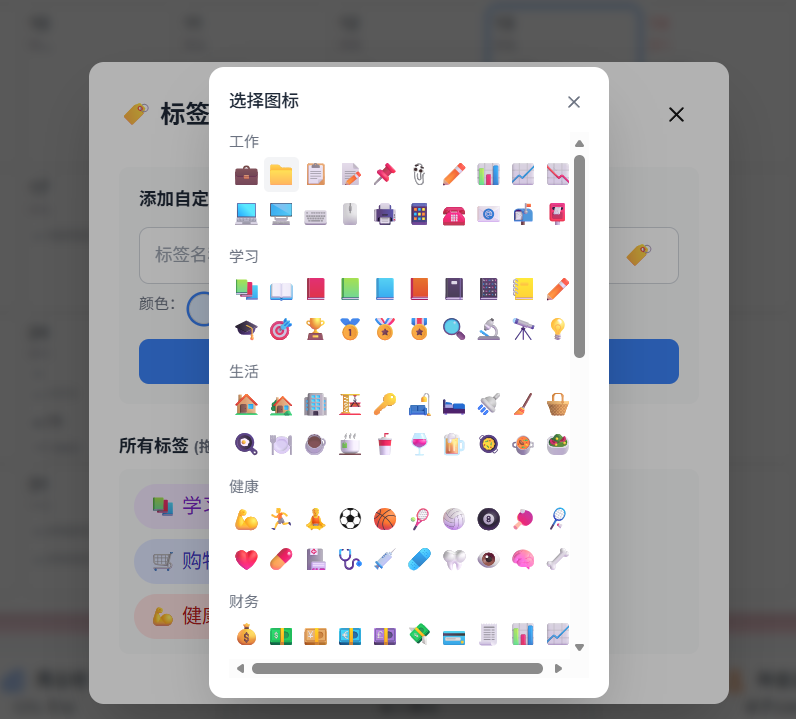
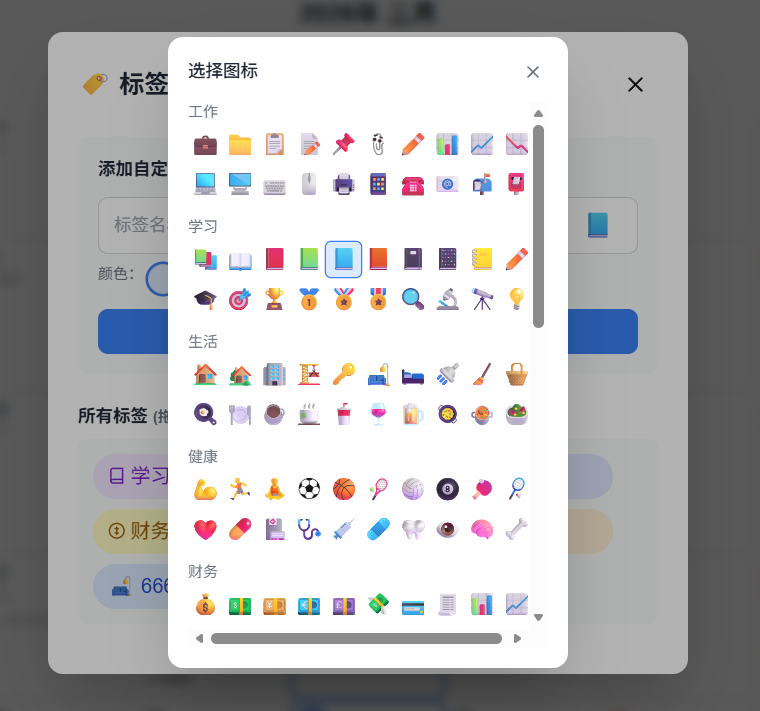
feat: 将自定义标签图标选择器改为 SVG 格式
- 创建 SVG_ICON_CATEGORIES 常量，包含工作、学习、生活、健康、财务、社交、出行、购物、其他 9 个分类，共 150+ 个 SVG 图标
- 修改 generateIconPickerHTML() 函数使用新的 SVG 图标分类
- 修改 selectIcon() 函数支持 SVG 图标选择和显示
- 修改 getTagIconSVG() 函数支持从 SVG_ICON_CATEGORIES 获取图标
- 选择图标弹窗改为 8 列布局，图标更大更清晰
- 每个图标都有 title 提示显示图标名称

diff --git a/src/main.ts b/src/main.ts
@@ -172,8 +172,19 @@ function getTagIconSVG(tagId: string, icon?: string): string {
   if (TAG_SVG_ICONS[tagId]) {
     return TAG_SVG_ICONS[tagId];
   }
-  // 否则使用原始 icon（可能是 emoji 或自定义 SVG 字符串）
-  return icon || '';
+  // 尝试从 SVG_ICON_CATEGORIES 中获取
+  if (icon) {
+    const svgIcon = getSVGIconById(icon);
+    if (svgIcon) {
+      return `<span class="w-3.5 h-3.5">${svgIcon}</span>`;
+    }
+  }
+  // 如果 icon 本身是 SVG 字符串（旧数据兼容）
+  if (icon && icon.startsWith('<svg')) {
+    return `<span class="w-3.5 h-3.5">${icon}</span>`;
+  }
+  // 默认返回一个标签图标
+  return `<span class="w-3.5 h-3.5"><svg viewBox="0 0 24 24" fill="none" stroke="currentColor" stroke-width="1.5"><path d="M12 2H2v10l9.29 9.29c.94.94 2.48.94 3.42 0l6.58-6.58c.94-.94.94-2.48 0-3.42L12 2Z"/><circle cx="7" cy="7" r="1.5"/></svg></span>`;
 }
 
 // 预设标签配置
@@ -189,7 +200,210 @@ const DEFAULT_TAGS: Tag[] = [
   { id: 'shopping', name: '购物', color: 'bg-indigo-100', textColor: 'text-indigo-700', icon: 'cart' },
 ];
 
-// 可选图标列表
+// SVG 图标定义
+interface SVGIcon {
+  id: string;
+  name: string;
+  svg: string;
+}
+
+// SVG 图标库（按分类组织）
+const SVG_ICON_CATEGORIES: { name: string; icons: SVGIcon[] }[] = [
+  {
+    name: '工作',
+    icons: [
+      { id: 'briefcase', name: '公文包', svg: '<svg viewBox="0 0 24 24" fill="none" stroke="currentColor" stroke-width="1.5"><rect x="2" y="7" width="20" height="14" rx="2"/><path d="M16 7V4a2 2 0 0 0-2-2h-4a2 2 0 0 0-2 2v3"/></svg>' },
+      { id: 'folder', name: '文件夹', svg: '<svg viewBox="0 0 24 24" fill="none" stroke="currentColor" stroke-width="1.5"><path d="M22 19a2 2 0 0 1-2 2H4a2 2 0 0 1-2-2V5a2 2 0 0 1 2-2h5l2 3h9a2 2 0 0 1 2 2z"/></svg>' },
+      { id: 'file-text', name: '文档', svg: '<svg viewBox="0 0 24 24" fill="none" stroke="currentColor" stroke-width="1.5"><path d="M14 2H6a2 2 0 0 0-2 2v16a2 2 0 0 0 2 2h12a2 2 0 0 0 2-2V8z"/><polyline points="14,2 14,8 20,8"/><line x1="16" y1="13" x2="8" y2="13"/><line x1="16" y1="17" x2="8" y2="17"/><line x1="10" y1="9" x2="8" y2="9"/></svg>' },
+      { id: 'paperclip', name: '回形针', svg: '<svg viewBox="0 0 24 24" fill="none" stroke="currentColor" stroke-width="1.5"><path d="m21.44 11.05-9.19 9.19a6 6 0 0 1-8.49-8.49l9.19-9.19a4 4 0 0 1 5.66 5.66l-9.2 9.19a2 2 0 0 1-2.83-2.83l8.49-8.48"/></svg>' },
+      { id: 'pin', name: '图钉', svg: '<svg viewBox="0 0 24 24" fill="none" stroke="currentColor" stroke-width="1.5"><path d="M12 17v5"/><path d="M9 10.76a2 2 0 0 1-1.11 1.79l-1.78.9A2 2 0 0 0 5 15.24V17h14v-1.76a2 2 0 0 0-1.11-1.79l-1.78-.9A2 2 0 0 1 15 10.76V6a1 1 0 0 0-1-1h-4a1 1 0 0 0-1 1z"/></svg>' },
+      { id: 'pencil', name: '铅笔', svg: '<svg viewBox="0 0 24 24" fill="none" stroke="currentColor" stroke-width="1.5"><path d="M17 3a2.85 2.85 0 1 1 4 4L7.5 20.5 2 22l1.5-5.5Z"/></svg>' },
+      { id: 'bar-chart', name: '柱状图', svg: '<svg viewBox="0 0 24 24" fill="none" stroke="currentColor" stroke-width="1.5"><line x1="12" y1="20" x2="12" y2="10"/><line x1="18" y1="20" x2="18" y2="4"/><line x1="6" y1="20" x2="6" y2="16"/></svg>' },
+      { id: 'trending-up', name: '上升趋势', svg: '<svg viewBox="0 0 24 24" fill="none" stroke="currentColor" stroke-width="1.5"><polyline points="23,6 13.5,15.5 8.5,10.5 1,18"/><polyline points="17,6 23,6 23,12"/></svg>' },
+      { id: 'laptop', name: '笔记本', svg: '<svg viewBox="0 0 24 24" fill="none" stroke="currentColor" stroke-width="1.5"><rect x="2" y="4" width="20" height="12" rx="2"/><line x1="6" y1="20" x2="18" y2="20"/><line x1="12" y1="16" x2="12" y2="20"/></svg>' },
+      { id: 'monitor', name: '显示器', svg: '<svg viewBox="0 0 24 24" fill="none" stroke="currentColor" stroke-width="1.5"><rect x="2" y="3" width="20" height="14" rx="2"/><line x1="8" y1="21" x2="16" y2="21"/><line x1="12" y1="17" x2="12" y2="21"/></svg>' },
+      { id: 'phone', name: '电话', svg: '<svg viewBox="0 0 24 24" fill="none" stroke="currentColor" stroke-width="1.5"><path d="M22 16.92v3a2 2 0 0 1-2.18 2 19.79 19.79 0 0 1-8.63-3.07 19.5 19.5 0 0 1-6-6 19.79 19.79 0 0 1-3.07-8.67A2 2 0 0 1 4.11 2h3a2 2 0 0 1 2 1.72 12.84 12.84 0 0 0 .7 2.81 2 2 0 0 1-.45 2.11L8.09 9.91a16 16 0 0 0 6 6l1.27-1.27a2 2 0 0 1 2.11-.45 12.84 12.84 0 0 0 2.81.7A2 2 0 0 1 22 16.92z"/></svg>' },
+      { id: 'mail', name: '邮件', svg: '<svg viewBox="0 0 24 24" fill="none" stroke="currentColor" stroke-width="1.5"><rect x="2" y="4" width="20" height="16" rx="2"/><polyline points="22,6 12,13 2,6"/></svg>' },
+      { id: 'calendar', name: '日历', svg: '<svg viewBox="0 0 24 24" fill="none" stroke="currentColor" stroke-width="1.5"><rect x="3" y="4" width="18" height="18" rx="2"/><line x1="16" y1="2" x2="16" y2="6"/><line x1="8" y1="2" x2="8" y2="6"/><line x1="3" y1="10" x2="21" y2="10"/></svg>' },
+      { id: 'clock', name: '时钟', svg: '<svg viewBox="0 0 24 24" fill="none" stroke="currentColor" stroke-width="1.5"><circle cx="12" cy="12" r="10"/><polyline points="12,6 12,12 16,14"/></svg>' },
+      { id: 'target', name: '目标', svg: '<svg viewBox="0 0 24 24" fill="none" stroke="currentColor" stroke-width="1.5"><circle cx="12" cy="12" r="10"/><circle cx="12" cy="12" r="6"/><circle cx="12" cy="12" r="2"/></svg>' },
+    ]
+  },
+  {
+    name: '学习',
+    icons: [
+      { id: 'book-open', name: '打开的书', svg: '<svg viewBox="0 0 24 24" fill="none" stroke="currentColor" stroke-width="1.5"><path d="M2 3h6a4 4 0 0 1 4 4v14a3 3 0 0 0-3-3H2z"/><path d="M22 3h-6a4 4 0 0 0-4 4v14a3 3 0 0 1 3-3h7z"/></svg>' },
+      { id: 'book', name: '书本', svg: '<svg viewBox="0 0 24 24" fill="none" stroke="currentColor" stroke-width="1.5"><path d="M4 19.5A2.5 2.5 0 0 1 6.5 17H20"/><path d="M6.5 2H20v20H6.5A2.5 2.5 0 0 1 4 19.5v-15A2.5 2.5 0 0 1 6.5 2z"/></svg>' },
+      { id: 'graduation-cap', name: '学士帽', svg: '<svg viewBox="0 0 24 24" fill="none" stroke="currentColor" stroke-width="1.5"><path d="M22 10v6M6 12.5V16a6 3 0 0 0 12 0v-3.5"/><path d="M12 2L2 7l10 5 10-5-10-5z"/></svg>' },
+      { id: 'award', name: '奖杯', svg: '<svg viewBox="0 0 24 24" fill="none" stroke="currentColor" stroke-width="1.5"><circle cx="12" cy="8" r="6"/><path d="M15.477 12.89 17 22l-5-3-5 3 1.523-9.11"/></svg>' },
+      { id: 'medal', name: '奖牌', svg: '<svg viewBox="0 0 24 24" fill="none" stroke="currentColor" stroke-width="1.5"><path d="M7.21 15 2.66 7.14a2 2 0 0 1 .13-2.2L4.4 2.8A2 2 0 0 1 6 2h12a2 2 0 0 1 1.6.8l1.6 2.14a2 2 0 0 1 .14 2.2L16.79 15"/><path d="M12 22a7 7 0 1 0 0-14 7 7 0 0 0 0 14z"/></svg>' },
+      { id: 'search', name: '搜索', svg: '<svg viewBox="0 0 24 24" fill="none" stroke="currentColor" stroke-width="1.5"><circle cx="11" cy="11" r="8"/><line x1="21" y1="21" x2="16.65" y2="16.65"/></svg>' },
+      { id: 'microscope', name: '显微镜', svg: '<svg viewBox="0 0 24 24" fill="none" stroke="currentColor" stroke-width="1.5"><path d="M6 18h8"/><path d="M3 22h18"/><path d="M14 22a7 7 0 1 0 0-14 7 7 0 0 0 0 14z"/><path d="M9 14l3-3"/><circle cx="14" cy="8" r="2"/></svg>' },
+      { id: 'lightbulb', name: '灯泡', svg: '<svg viewBox="0 0 24 24" fill="none" stroke="currentColor" stroke-width="1.5"><path d="M15 14c.2-1 .7-1.7 1.5-2.5 1-.9 1.5-2.2 1.5-3.5A6 6 0 0 0 6 8c0 1 .2 2.2 1.5 3.5.7.7 1.3 1.5 1.5 2.5"/><path d="M9 18h6"/><path d="M10 22h4"/></svg>' },
+      { id: 'brain', name: '大脑', svg: '<svg viewBox="0 0 24 24" fill="none" stroke="currentColor" stroke-width="1.5"><path d="M9.5 2A2.5 2.5 0 0 1 12 4.5v15a2.5 2.5 0 0 1-4.96.44 2.5 2.5 0 0 1-2.96-3.08 3 3 0 0 1-.34-5.58 2.5 2.5 0 0 1 1.32-4.24 2.5 2.5 0 0 1 4.44-2.54"/><path d="M14.5 2A2.5 2.5 0 0 0 12 4.5v15a2.5 2.5 0 0 0 4.96.44 2.5 2.5 0 0 0 2.96-3.08 3 3 0 0 0 .34-5.58 2.5 2.5 0 0 0-1.32-4.24 2.5 2.5 0 0 0-4.44-2.54"/></svg>' },
+      { id: 'pen-tool', name: '笔', svg: '<svg viewBox="0 0 24 24" fill="none" stroke="currentColor" stroke-width="1.5"><path d="m12 19 7-7 3 3-7 7-3-3z"/><path d="m18 13-1.5-7.5L2 2l3.5 14.5L13 18l5-5z"/><path d="m2 2 7.586 7.586"/><circle cx="11" cy="11" r="2"/></svg>' },
+      { id: 'notebook', name: '笔记本', svg: '<svg viewBox="0 0 24 24" fill="none" stroke="currentColor" stroke-width="1.5"><path d="M4 4h16v16H4z"/><path d="M8 2v4"/><path d="M12 2v4"/><path d="M16 2v4"/><path d="M8 10h8"/><path d="M8 14h8"/></svg>' },
+      { id: 'bookmark', name: '书签', svg: '<svg viewBox="0 0 24 24" fill="none" stroke="currentColor" stroke-width="1.5"><path d="m19 21-7-4-7 4V5a2 2 0 0 1 2-2h10a2 2 0 0 1 2 2v16z"/></svg>' },
+      { id: 'flag', name: '旗帜', svg: '<svg viewBox="0 0 24 24" fill="none" stroke="currentColor" stroke-width="1.5"><path d="M4 15s1-1 4-1 5 2 8 2 4-1 4-1V3s-1 1-4 1-5-2-8-2-4 1-4 1z"/><line x1="4" y1="22" x2="4" y2="15"/></svg>' },
+      { id: 'check-circle', name: '完成', svg: '<svg viewBox="0 0 24 24" fill="none" stroke="currentColor" stroke-width="1.5"><path d="M22 11.08V12a10 10 0 1 1-5.93-9.14"/><polyline points="22,4 12,14.01 9,11.01"/></svg>' },
+      { id: 'star', name: '星星', svg: '<svg viewBox="0 0 24 24" fill="none" stroke="currentColor" stroke-width="1.5"><polygon points="12,2 15.09,8.26 22,9.27 17,14.14 18.18,21.02 12,17.77 5.82,21.02 7,14.14 2,9.27 8.91,8.26 12,2"/></svg>' },
+    ]
+  },
+  {
+    name: '生活',
+    icons: [
+      { id: 'home', name: '房子', svg: '<svg viewBox="0 0 24 24" fill="none" stroke="currentColor" stroke-width="1.5"><path d="m3 9 9-7 9 7v11a2 2 0 0 1-2 2H5a2 2 0 0 1-2-2z"/><polyline points="9,22 9,12 15,12 15,22"/></svg>' },
+      { id: 'building', name: '建筑', svg: '<svg viewBox="0 0 24 24" fill="none" stroke="currentColor" stroke-width="1.5"><rect x="4" y="2" width="16" height="20" rx="2"/><path d="M9 22v-4h6v4"/><path d="M8 6h.01"/><path d="M16 6h.01"/><path d="M12 6h.01"/><path d="M12 10h.01"/><path d="M12 14h.01"/><path d="M16 10h.01"/><path d="M16 14h.01"/><path d="M8 10h.01"/><path d="M8 14h.01"/></svg>' },
+      { id: 'key', name: '钥匙', svg: '<svg viewBox="0 0 24 24" fill="none" stroke="currentColor" stroke-width="1.5"><path d="m21 2-2 2m-7.61 7.61a5.5 5.5 0 1 1-7.778 7.778 5.5 5.5 0 0 1 7.777-7.777zm0 0L15.5 7.5m0 0 3 3L22 7l-3-3m-3.5 3.5L19 4"/></svg>' },
+      { id: 'coffee', name: '咖啡', svg: '<svg viewBox="0 0 24 24" fill="none" stroke="currentColor" stroke-width="1.5"><path d="M17 8h1a4 4 0 1 1 0 8h-1"/><path d="M3 8h14v9a4 4 0 0 1-4 4H7a4 4 0 0 1-4-4Z"/><line x1="6" y1="2" x2="6" y2="4"/><line x1="10" y1="2" x2="10" y2="4"/><line x1="14" y1="2" x2="14" y2="4"/></svg>' },
+      { id: 'utensils', name: '餐具', svg: '<svg viewBox="0 0 24 24" fill="none" stroke="currentColor" stroke-width="1.5"><path d="M3 2v7c0 1.1.9 2 2 2h4a2 2 0 0 0 2-2V2"/><path d="M7 2v20"/><path d="M21 15V2v0a5 5 0 0 0-5 5v6c0 1.1.9 2 2 2h3Zm0 0v7"/></svg>' },
+      { id: 'wine', name: '红酒', svg: '<svg viewBox="0 0 24 24" fill="none" stroke="currentColor" stroke-width="1.5"><path d="M8 22h8"/><path d="M12 11v11"/><path d="M12 15a7 7 0 0 0 7-7c0-2-1-6-7-6s-7 4-7 6a7 7 0 0 0 7 7z"/></svg>' },
+      { id: 'bed', name: '床', svg: '<svg viewBox="0 0 24 24" fill="none" stroke="currentColor" stroke-width="1.5"><path d="M2 4v16"/><path d="M2 8h18a2 2 0 0 1 2 2v10"/><path d="M2 17h20"/><path d="M6 8v9"/></svg>' },
+      { id: 'bath', name: '浴室', svg: '<svg viewBox="0 0 24 24" fill="none" stroke="currentColor" stroke-width="1.5"><path d="M9 6 6.5 3.5a1.5 1.5 0 0 0-1-.5C4.683 3 4 3.683 4 4.5V17a2 2 0 0 0 2 2h12a2 2 0 0 0 2-2v-5"/><line x1="10" y1="5" x2="8" y2="7"/><line x1="2" y1="12" x2="22" y2="12"/><line x1="7" y1="19" x2="7" y2="21"/><line x1="17" y1="19" x2="17" y2="21"/></svg>' },
+      { id: 'sofa', name: '沙发', svg: '<svg viewBox="0 0 24 24" fill="none" stroke="currentColor" stroke-width="1.5"><path d="M20 9V6a2 2 0 0 0-2-2H6a2 2 0 0 0-2 2v3"/><path d="M2 11v5a2 2 0 0 0 2 2h16a2 2 0 0 0 2-2v-5a2 2 0 0 0-4 0v2H6v-2a2 2 0 0 0-4 0Z"/><path d="M4 18v2"/><path d="M20 18v2"/><path d="M12 4v9"/></svg>' },
+      { id: 'tv', name: '电视', svg: '<svg viewBox="0 0 24 24" fill="none" stroke="currentColor" stroke-width="1.5"><rect x="2" y="7" width="20" height="15" rx="2"/><polyline points="17,2 12,7 7,2"/></svg>' },
+      { id: 'lamp', name: '台灯', svg: '<svg viewBox="0 0 24 24" fill="none" stroke="currentColor" stroke-width="1.5"><path d="M8 2h8l4 10H4L8 2Z"/><path d="M12 12v6"/><path d="M8 22v-2c0-1.1.9-2 2-2h4a2 2 0 0 1 2 2v2H8Z"/></svg>' },
+      { id: 'flower', name: '花', svg: '<svg viewBox="0 0 24 24" fill="none" stroke="currentColor" stroke-width="1.5"><path d="M12 7.5a4.5 4.5 0 1 1 4.5 4.5M12 7.5A4.5 4.5 0 1 0 7.5 12M12 7.5V9m-4.5 3a4.5 4.5 0 1 0 4.5 4.5M7.5 12H9m3 4.5a4.5 4.5 0 1 0 4.5-4.5M12 16.5V15m4.5-3a4.5 4.5 0 1 0-4.5-4.5M16.5 12H15"/><circle cx="12" cy="12" r="3"/><path d="M12 16.5V22"/><path d="M8 22h8"/></svg>' },
+      { id: 'gift', name: '礼物', svg: '<svg viewBox="0 0 24 24" fill="none" stroke="currentColor" stroke-width="1.5"><rect x="3" y="8" width="18" height="4" rx="1"/><path d="M12 8v13"/><path d="M19 12v7a2 2 0 0 1-2 2H7a2 2 0 0 1-2-2v-7"/><path d="M7.5 8a2.5 2.5 0 0 1 0-5A4.8 8 0 0 1 12 8a4.8 8 0 0 1 4.5-5 2.5 2.5 0 0 1 0 5"/></svg>' },
+      { id: 'sun', name: '太阳', svg: '<svg viewBox="0 0 24 24" fill="none" stroke="currentColor" stroke-width="1.5"><circle cx="12" cy="12" r="4"/><path d="M12 2v2"/><path d="M12 20v2"/><path d="m4.93 4.93 1.41 1.41"/><path d="m17.66 17.66 1.41 1.41"/><path d="M2 12h2"/><path d="M20 12h2"/><path d="m6.34 17.66-1.41 1.41"/><path d="m19.07 4.93-1.41 1.41"/></svg>' },
+      { id: 'moon', name: '月亮', svg: '<svg viewBox="0 0 24 24" fill="none" stroke="currentColor" stroke-width="1.5"><path d="M12 3a6 6 0 0 0 9 9 9 9 0 1 1-9-9Z"/></svg>' },
+    ]
+  },
+  {
+    name: '健康',
+    icons: [
+      { id: 'heart', name: '心形', svg: '<svg viewBox="0 0 24 24" fill="none" stroke="currentColor" stroke-width="1.5"><path d="M19 14c1.49-1.46 3-3.21 3-5.5A5.5 5.5 0 0 0 16.5 3c-1.76 0-3 .5-4.5 2-1.5-1.5-2.74-2-4.5-2A5.5 5.5 0 0 0 2 8.5c0 2.3 1.5 4.05 3 5.5l7 7Z"/></svg>' },
+      { id: 'activity', name: '活动', svg: '<svg viewBox="0 0 24 24" fill="none" stroke="currentColor" stroke-width="1.5"><polyline points="22,12 18,12 15,21 9,3 6,12 2,12"/></svg>' },
+      { id: 'dumbbell', name: '哑铃', svg: '<svg viewBox="0 0 24 24" fill="none" stroke="currentColor" stroke-width="1.5"><path d="m6.5 6.5 11 11"/><path d="m21 21-1-1"/><path d="m3 3 1 1"/><path d="m18 22 4-4"/><path d="m2 6 4-4"/><path d="m3 10 7-7"/><path d="m14 21 7-7"/></svg>' },
+      { id: 'bike', name: '骑行', svg: '<svg viewBox="0 0 24 24" fill="none" stroke="currentColor" stroke-width="1.5"><circle cx="18.5" cy="17.5" r="3.5"/><circle cx="5.5" cy="17.5" r="3.5"/><circle cx="15" cy="5" r="1"/><path d="M12 17.5V14l-3-3 4-3 2 3h2"/></svg>' },
+      { id: 'pill', name: '药丸', svg: '<svg viewBox="0 0 24 24" fill="none" stroke="currentColor" stroke-width="1.5"><path d="m10.5 20.5 10-10a4.95 4.95 0 1 0-7-7l-10 10a4.95 4.95 0 1 0 7 7Z"/><path d="m8.5 8.5 7 7"/></svg>' },
+      { id: 'stethoscope', name: '听诊器', svg: '<svg viewBox="0 0 24 24" fill="none" stroke="currentColor" stroke-width="1.5"><path d="M4.8 8.8A3 3 0 0 0 4 11v1a8 8 0 0 0 16 0v-1a3 3 0 0 0-.8-2.2"/><path d="M9 6h.01"/><path d="M15 6h.01"/><path d="M12 6h.01"/><circle cx="19" cy="6" r="3"/></svg>' },
+      { id: 'thermometer', name: '体温计', svg: '<svg viewBox="0 0 24 24" fill="none" stroke="currentColor" stroke-width="1.5"><path d="M14 4v10.54a4 4 0 1 1-4 0V4a2 2 0 0 1 4 0Z"/></svg>' },
+      { id: 'bandage', name: '创可贴', svg: '<svg viewBox="0 0 24 24" fill="none" stroke="currentColor" stroke-width="1.5"><path d="M19.5 12.5c2 2 2 5 0 7s-5 2-7 0l-8.5-8.5c-2-2-2-5 0-7s5-2 7 0l8.5 8.5z"/><path d="M9 12l6 6"/><path d="M12 9l6 6"/></svg>' },
+      { id: 'eye', name: '眼睛', svg: '<svg viewBox="0 0 24 24" fill="none" stroke="currentColor" stroke-width="1.5"><path d="M2 12s3-7 10-7 10 7 10 7-3 7-10 7-10-7-10-7Z"/><circle cx="12" cy="12" r="3"/></svg>' },
+      { id: 'apple', name: '苹果', svg: '<svg viewBox="0 0 24 24" fill="none" stroke="currentColor" stroke-width="1.5"><path d="M12 20.94c1.5 0 2.75 1.06 4 1.06 3 0 6-8 6-12.22A4.91 4.91 0 0 0 17 5c-2.22 0-4 1.44-5 2-1-.56-2.78-2-5-2a4.9 4.9 0 0 0-5 4.78C2 14 5 22 8 22c1.25 0 2.5-1.06 4-1.06Z"/><path d="M10 2c1 .5 2 1.5 2 3"/><path d="M12 5V2"/></svg>' },
+      { id: 'salad', name: '沙拉', svg: '<svg viewBox="0 0 24 24" fill="none" stroke="currentColor" stroke-width="1.5"><path d="M7 21h10"/><path d="M12 21a9 9 0 0 0 9-9H3a9 9 0 0 0 9 9Z"/><path d="M11.38 12a2.4 2.4 0 0 1-.4-4.77 2.4 2.4 0 0 1 3.2-2.77 2.4 2.4 0 0 1 3.47-.63 2.4 2.4 0 0 1 3.37 3.37 2.4 2.4 0 0 1-1.1 3.7 2.51 2.51 0 0 1 .03 1.1"/><path d="M13 12a2.4 2.4 0 0 0 .4-4.77 2.4 2.4 0 0 0-3.2-2.77 2.4 2.4 0 0 0-3.47-.63 2.4 2.4 0 0 0-3.37 3.37 2.4 2.4 0 0 0 1.1 3.7 2.5 2.5 0 0 0-.03 1.1"/></svg>' },
+      { id: 'running', name: '跑步', svg: '<svg viewBox="0 0 24 24" fill="none" stroke="currentColor" stroke-width="1.5"><circle cx="13" cy="4" r="2"/><path d="M6 20h3l2-6 3-1 2 2 3-1"/><path d="m9 12-1 4"/><path d="M4 17l3-4 2 1"/></svg>' },
+      { id: 'yoga', name: '瑜伽', svg: '<svg viewBox="0 0 24 24" fill="none" stroke="currentColor" stroke-width="1.5"><circle cx="12" cy="4" r="2"/><path d="M12 6v4"/><path d="M8 10h8"/><path d="m8 14 4 4 4-4"/><path d="M12 18v2"/></svg>' },
+      { id: 'baby', name: '婴儿', svg: '<svg viewBox="0 0 24 24" fill="none" stroke="currentColor" stroke-width="1.5"><circle cx="12" cy="6" r="3"/><path d="M12 9v3"/><path d="M6 21v-3a6 6 0 1 1 12 0v3"/><circle cx="9" cy="6" r="0.5" fill="currentColor"/><circle cx="15" cy="6" r="0.5" fill="currentColor"/></svg>' },
+      { id: 'bone', name: '骨骼', svg: '<svg viewBox="0 0 24 24" fill="none" stroke="currentColor" stroke-width="1.5"><path d="M17 10c.7-.7 1.69 0 2.5 0a2.5 2.5 0 1 0 0-5 .5.5 0 0 0-.5.5 1.5 1.5 0 0 1-3 0 .5.5 0 0 0-.5-.5 2.5 2.5 0 1 0 0 5c.81 0 1.8.7 2.5 0Z"/><path d="M17 14c.7.7 1.69 0 2.5 0a2.5 2.5 0 1 1 0 5 .5.5 0 0 1-.5-.5 1.5 1.5 0 0 0-3 0 .5.5 0 0 1-.5.5 2.5 2.5 0 1 1 0-5c.81 0 1.8-.7 2.5 0Z"/><path d="M7 10c-.7-.7-1.69 0-2.5 0a2.5 2.5 0 1 1 0-5 .5.5 0 0 1 .5.5 1.5 1.5 0 0 0 3 0 .5.5 0 0 1 .5-.5 2.5 2.5 0 1 1 0 5c-.81 0-1.8.7-2.5 0Z"/><path d="M7 14c-.7.7-1.69 0-2.5 0a2.5 2.5 0 1 0 0 5 .5.5 0 0 0 .5-.5 1.5 1.5 0 0 0 3 0 .5.5 0 0 0 .5.5 2.5 2.5 0 1 0 0-5c-.81 0-1.8-.7-2.5 0Z"/><path d="M10 12h4"/></svg>' },
+    ]
+  },
+  {
+    name: '财务',
+    icons: [
+      { id: 'wallet', name: '钱包', svg: '<svg viewBox="0 0 24 24" fill="none" stroke="currentColor" stroke-width="1.5"><path d="M21 12V7H5a2 2 0 0 1 0-4h14v4"/><path d="M3 5v14a2 2 0 0 0 2 2h16v-5"/><path d="M18 12a2 2 0 0 0 0 4h4v-4Z"/></svg>' },
+      { id: 'credit-card', name: '银行卡', svg: '<svg viewBox="0 0 24 24" fill="none" stroke="currentColor" stroke-width="1.5"><rect x="1" y="4" width="22" height="16" rx="2"/><line x1="1" y1="10" x2="23" y2="10"/></svg>' },
+      { id: 'banknote', name: '钞票', svg: '<svg viewBox="0 0 24 24" fill="none" stroke="currentColor" stroke-width="1.5"><rect x="2" y="6" width="20" height="12" rx="2"/><circle cx="12" cy="12" r="2"/><path d="M6 12h.01"/><path d="M18 12h.01"/></svg>' },
+      { id: 'piggy-bank', name: '存钱罐', svg: '<svg viewBox="0 0 24 24" fill="none" stroke="currentColor" stroke-width="1.5"><path d="M19 5c-1.5 0-2.8 1.4-3 2-3.5-1.5-11-.3-11 5 0 1.8 0 3 2 4.5V20h4v-2h3v2h4v-3.5c1-.5 2-1.5 2-3.5h2V9c0-1.5-1-4-3-4Z"/><path d="M2 9v1c0 1.1.9 2 2 2"/><path d="M16 11h.01"/></svg>' },
+      { id: 'bitcoin', name: '比特币', svg: '<svg viewBox="0 0 24 24" fill="none" stroke="currentColor" stroke-width="1.5"><path d="M11.767 19.089c4.924.868 6.14-6.025 1.216-6.894m-1.216 6.894L5.86 18.047m5.908 1.042-.347 1.97m1.563-8.864c4.924.869 6.14-6.025 1.215-6.893m-1.215 6.893-3.94-.694m5.155-6.2L8.29 4.26m5.908 1.042.348-1.97M7.48 20.364l3.126-17.727"/></svg>' },
+      { id: 'coin', name: '金币', svg: '<svg viewBox="0 0 24 24" fill="none" stroke="currentColor" stroke-width="1.5"><circle cx="12" cy="12" r="10"/><path d="M12 6v12"/><path d="M8 10h8"/><path d="M8 14h8"/></svg>' },
+      { id: 'receipt', name: '收据', svg: '<svg viewBox="0 0 24 24" fill="none" stroke="currentColor" stroke-width="1.5"><path d="M4 2v20l2-1 2 1 2-1 2 1 2-1 2 1 2-1 2 1V2l-2 1-2-1-2 1-2-1-2 1-2-1-2 1-2-1Z"/><path d="M16 8h-6a2 2 0 1 0 0 4h4a2 2 0 1 1 0 4H8"/><path d="M12 6v12"/></svg>' },
+      { id: 'percent', name: '百分比', svg: '<svg viewBox="0 0 24 24" fill="none" stroke="currentColor" stroke-width="1.5"><line x1="19" y1="5" x2="5" y2="19"/><circle cx="6.5" cy="6.5" r="2.5"/><circle cx="17.5" cy="17.5" r="2.5"/></svg>' },
+      { id: 'trending-down', name: '下降', svg: '<svg viewBox="0 0 24 24" fill="none" stroke="currentColor" stroke-width="1.5"><polyline points="23,18 13.5,8.5 8.5,13.5 1,6"/><polyline points="17,18 23,18 23,12"/></svg>' },
+      { id: 'landmark', name: '银行', svg: '<svg viewBox="0 0 24 24" fill="none" stroke="currentColor" stroke-width="1.5"><line x1="3" y1="22" x2="21" y2="22"/><line x1="6" y1="18" x2="6" y2="11"/><line x1="10" y1="18" x2="10" y2="11"/><line x1="14" y1="18" x2="14" y2="11"/><line x1="18" y1="18" x2="18" y2="11"/><polygon points="12,2 2,7 22,7"/></svg>' },
+      { id: 'diamond', name: '钻石', svg: '<svg viewBox="0 0 24 24" fill="none" stroke="currentColor" stroke-width="1.5"><path d="M2.7 10.3a2.41 2.41 0 0 0 0 3.41l7.59 7.59a2.41 2.41 0 0 0 3.41 0l7.59-7.59a2.41 2.41 0 0 0 0-3.41l-7.59-7.59a2.41 2.41 0 0 0-3.41 0Z"/></svg>' },
+      { id: 'hand-coins', name: '存钱', svg: '<svg viewBox="0 0 24 24" fill="none" stroke="currentColor" stroke-width="1.5"><path d="M11 15h7a2 2 0 0 0 2-2V9a2 2 0 0 0-2-2h-4"/><path d="M9 7h4a2 2 0 0 1 2 2v4a2 2 0 0 1-2 2H5"/><path d="M5 15v4"/><path d="M5 19h4"/><circle cx="12" cy="5" r="2"/></svg>' },
+      { id: 'circle-dollar-sign', name: '美元', svg: '<svg viewBox="0 0 24 24" fill="none" stroke="currentColor" stroke-width="1.5"><circle cx="12" cy="12" r="10"/><path d="M16 8h-6a2 2 0 1 0 0 4h4a2 2 0 1 1 0 4H8"/><path d="M12 6v12"/></svg>' },
+      { id: 'line-chart', name: '折线图', svg: '<svg viewBox="0 0 24 24" fill="none" stroke="currentColor" stroke-width="1.5"><path d="M3 3v18h18"/><path d="m19 9-5 5-4-4-3 3"/></svg>' },
+      { id: 'calculator', name: '计算器', svg: '<svg viewBox="0 0 24 24" fill="none" stroke="currentColor" stroke-width="1.5"><rect x="4" y="2" width="16" height="20" rx="2"/><line x1="8" y1="6" x2="16" y2="6"/><line x1="16" y1="14" x2="16" y2="18"/><path d="M8 10h.01"/><path d="M12 10h.01"/><path d="M16 10h.01"/><path d="M8 14h.01"/><path d="M12 14h.01"/><path d="M8 18h.01"/><path d="M12 18h.01"/></svg>' },
+    ]
+  },
+  {
+    name: '社交',
+    icons: [
+      { id: 'users', name: '用户组', svg: '<svg viewBox="0 0 24 24" fill="none" stroke="currentColor" stroke-width="1.5"><path d="M16 21v-2a4 4 0 0 0-4-4H6a4 4 0 0 0-4 4v2"/><circle cx="9" cy="7" r="4"/><path d="M22 21v-2a4 4 0 0 0-3-3.87"/><path d="M16 3.13a4 4 0 0 1 0 7.75"/></svg>' },
+      { id: 'user', name: '用户', svg: '<svg viewBox="0 0 24 24" fill="none" stroke="currentColor" stroke-width="1.5"><path d="M19 21v-2a4 4 0 0 0-4-4H9a4 4 0 0 0-4 4v2"/><circle cx="12" cy="7" r="4"/></svg>' },
+      { id: 'user-plus', name: '添加用户', svg: '<svg viewBox="0 0 24 24" fill="none" stroke="currentColor" stroke-width="1.5"><path d="M16 21v-2a4 4 0 0 0-4-4H6a4 4 0 0 0-4 4v2"/><circle cx="9" cy="7" r="4"/><line x1="19" y1="8" x2="19" y2="14"/><line x1="22" y1="11" x2="16" y2="11"/></svg>' },
+      { id: 'message-circle', name: '消息', svg: '<svg viewBox="0 0 24 24" fill="none" stroke="currentColor" stroke-width="1.5"><path d="M21 11.5a8.38 8.38 0 0 1-.9 3.8 8.5 8.5 0 0 1-7.6 4.7 8.38 8.38 0 0 1-3.8-.9L3 21l1.9-5.7a8.38 8.38 0 0 1-.9-3.8 8.5 8.5 0 0 1 4.7-7.6 8.38 8.38 0 0 1 3.8-.9h.5a8.48 8.48 0 0 1 8 8v.5z"/></svg>' },
+      { id: 'message-square', name: '对话框', svg: '<svg viewBox="0 0 24 24" fill="none" stroke="currentColor" stroke-width="1.5"><path d="M21 15a2 2 0 0 1-2 2H7l-4 4V5a2 2 0 0 1 2-2h14a2 2 0 0 1 2 2z"/></svg>' },
+      { id: 'at-sign', name: '@符号', svg: '<svg viewBox="0 0 24 24" fill="none" stroke="currentColor" stroke-width="1.5"><circle cx="12" cy="12" r="4"/><path d="M16 8v5a3 3 0 0 0 6 0v-1a10 10 0 1 0-4 8"/></svg>' },
+      { id: 'handshake', name: '握手', svg: '<svg viewBox="0 0 24 24" fill="none" stroke="currentColor" stroke-width="1.5"><path d="m11 17 2 2a1 1 0 1 0 3-3"/><path d="m14 14 2.5 2.5a1 1 0 1 0 3-3l-3.88-3.88a3 3 0 0 0-4.24 0l-.88.88a1 1 0 1 1-3-3l2.81-2.81a5.79 5.79 0 0 1 7.06-.87l.47.28a2 2 0 0 0 1.42.25L21 4"/><path d="m21 3 1 11h-2"/><path d="M3 3 2 14l6.5 6.5a1 1 0 1 0 3-3"/><path d="M3 4h8"/></svg>' },
+      { id: 'heart-handshake', name: '爱心握手', svg: '<svg viewBox="0 0 24 24" fill="none" stroke="currentColor" stroke-width="1.5"><path d="M19 14c1.49-1.46 3-3.21 3-5.5A5.5 5.5 0 0 0 16.5 3c-1.76 0-3 .5-4.5 2-1.5-1.5-2.74-2-4.5-2A5.5 5.5 0 0 0 2 8.5c0 2.3 1.5 4.05 3 5.5l7 7Z"/><path d="M12 5 9.04 7.96a2.17 2.17 0 0 0 0 3.08c.82.82 2.13.85 3 .07l2.07-1.9a2.82 2.82 0 0 1 3.79 0l2.96 2.66"/><path d="m18 15-2-2"/><path d="m15 18-2-2"/></svg>' },
+      { id: 'share-2', name: '分享', svg: '<svg viewBox="0 0 24 24" fill="none" stroke="currentColor" stroke-width="1.5"><circle cx="18" cy="5" r="3"/><circle cx="6" cy="12" r="3"/><circle cx="18" cy="19" r="3"/><line x1="8.59" y1="13.51" x2="15.42" y2="17.49"/><line x1="15.41" y1="6.51" x2="8.59" y2="10.49"/></svg>' },
+      { id: 'thumbs-up', name: '点赞', svg: '<svg viewBox="0 0 24 24" fill="none" stroke="currentColor" stroke-width="1.5"><path d="M7 10v12"/><path d="M15 5.88 14 10h5.83a2 2 0 0 1 1.92 2.56l-2.33 8A2 2 0 0 1 17.5 22H4a2 2 0 0 1-2-2v-8a2 2 0 0 1 2-2h2.76a2 2 0 0 0 1.79-1.11L12 2h0a3.13 3.13 0 0 1 3 3.88Z"/></svg>' },
+      { id: 'smile', name: '微笑', svg: '<svg viewBox="0 0 24 24" fill="none" stroke="currentColor" stroke-width="1.5"><circle cx="12" cy="12" r="10"/><path d="M8 14s1.5 2 4 2 4-2 4-2"/><line x1="9" y1="9" x2="9.01" y2="9"/><line x1="15" y1="9" x2="15.01" y2="9"/></svg>' },
+      { id: 'frown', name: '悲伤', svg: '<svg viewBox="0 0 24 24" fill="none" stroke="currentColor" stroke-width="1.5"><circle cx="12" cy="12" r="10"/><path d="M16 16s-1.5-2-4-2-4 2-4 2"/><line x1="9" y1="9" x2="9.01" y2="9"/><line x1="15" y1="9" x2="15.01" y2="9"/></svg>' },
+      { id: 'meh', name: '一般', svg: '<svg viewBox="0 0 24 24" fill="none" stroke="currentColor" stroke-width="1.5"><circle cx="12" cy="12" r="10"/><line x1="8" y1="15" x2="16" y2="15"/><line x1="9" y1="9" x2="9.01" y2="9"/><line x1="15" y1="9" x2="15.01" y2="9"/></svg>' },
+      { id: 'megaphone', name: '喇叭', svg: '<svg viewBox="0 0 24 24" fill="none" stroke="currentColor" stroke-width="1.5"><path d="m3 11 18-5v12L3 13v-2z"/><path d="M11.6 16.8a3 3 0 1 1-5.8-1.6"/></svg>' },
+      { id: 'link', name: '链接', svg: '<svg viewBox="0 0 24 24" fill="none" stroke="currentColor" stroke-width="1.5"><path d="M10 13a5 5 0 0 0 7.54.54l3-3a5 5 0 0 0-7.07-7.07l-1.72 1.71"/><path d="M14 11a5 5 0 0 0-7.54-.54l-3 3a5 5 0 0 0 7.07 7.07l1.71-1.71"/></svg>' },
+    ]
+  },
+  {
+    name: '出行',
+    icons: [
+      { id: 'plane', name: '飞机', svg: '<svg viewBox="0 0 24 24" fill="none" stroke="currentColor" stroke-width="1.5"><path d="M17.8 19.2 16 11l3.5-3.5C21 6 21.5 4 21 3c-1-.5-3 0-4.5 1.5L13 8 4.8 6.2c-.5-.1-.9.1-1.1.5l-.3.5c-.2.5-.1 1 .3 1.3L9 12l-2 3H4l-1 1 3 2 2 3 1-1v-3l3-2 3.5 5.3c.3.4.8.5 1.3.3l.5-.2c.4-.3.6-.7.5-1.2z"/></svg>' },
+      { id: 'car', name: '汽车', svg: '<svg viewBox="0 0 24 24" fill="none" stroke="currentColor" stroke-width="1.5"><path d="M19 17h2c.6 0 1-.4 1-1v-3c0-.9-.7-1.7-1.5-1.9C18.7 10.6 16 10 16 10s-1.3-1.4-2.2-2.3c-.5-.4-1.1-.7-1.8-.7H5c-.6 0-1.1.4-1.4.9l-1.4 2.9A3.7 3.7 0 0 0 2 12v4c0 .6.4 1 1 1h2"/><circle cx="7" cy="17" r="2"/><path d="M9 17h6"/><circle cx="17" cy="17" r="2"/></svg>' },
+      { id: 'bus', name: '公交', svg: '<svg viewBox="0 0 24 24" fill="none" stroke="currentColor" stroke-width="1.5"><path d="M8 6v6"/><path d="M15 6v6"/><path d="M2 12h19"/><path d="M18 18h-1a1 1 0 0 1-1-1v-1a2 2 0 0 0-2-2h-5a2 2 0 0 0-2 2v1a1 1 0 0 1-1 1H6a1 1 0 0 1-1-1v-1a2 2 0 0 0-2-2H2"/><path d="M2 16v-3c0-.6.4-1 1-1h18c.6 0 1 .4 1 1v3"/><path d="M3 19h18"/><circle cx="7" cy="19" r="2"/><circle cx="17" cy="19" r="2"/></svg>' },
+      { id: 'train', name: '火车', svg: '<svg viewBox="0 0 24 24" fill="none" stroke="currentColor" stroke-width="1.5"><rect x="4" y="3" width="16" height="16" rx="2"/><path d="M4 11h16"/><path d="M12 3v8"/><path d="m8 19-2 3"/><path d="m18 22-2-3"/><path d="M8 15h0"/><path d="M16 15h0"/></svg>' },
+      { id: 'bike-icon', name: '自行车', svg: '<svg viewBox="0 0 24 24" fill="none" stroke="currentColor" stroke-width="1.5"><circle cx="18.5" cy="17.5" r="3.5"/><circle cx="5.5" cy="17.5" r="3.5"/><circle cx="15" cy="5" r="1"/><path d="M12 17.5V14l-3-3 4-3 2 3h3"/></svg>' },
+      { id: 'ship', name: '轮船', svg: '<svg viewBox="0 0 24 24" fill="none" stroke="currentColor" stroke-width="1.5"><path d="M2 21c.6.5 1.2 1 2.5 1 2.5 0 2.5-2 5-2 1.3 0 1.9.5 2.5 1 .6.5 1.2 1 2.5 1 2.5 0 2.5-2 5-2 1.3 0 1.9.5 2.5 1"/><path d="M19.38 20A11.6 11.6 0 0 0 21 14l-9-4-9 4c0 2.9.94 5.34 2.81 7.76"/><path d="M19 13V7a2 2 0 0 0-2-2H7a2 2 0 0 0-2 2v6"/><path d="M12 10v4"/><path d="M12 2v3"/></svg>' },
+      { id: 'map-pin', name: '地图标记', svg: '<svg viewBox="0 0 24 24" fill="none" stroke="currentColor" stroke-width="1.5"><path d="M20 10c0 6-8 12-8 12s-8-6-8-12a8 8 0 0 1 16 0Z"/><circle cx="12" cy="10" r="3"/></svg>' },
+      { id: 'map', name: '地图', svg: '<svg viewBox="0 0 24 24" fill="none" stroke="currentColor" stroke-width="1.5"><polygon points="3,6 9,3 15,6 21,3 21,18 15,21 9,18 3,21"/><line x1="9" y1="3" x2="9" y2="18"/><line x1="15" y1="6" x2="15" y2="21"/></svg>' },
+      { id: 'compass', name: '指南针', svg: '<svg viewBox="0 0 24 24" fill="none" stroke="currentColor" stroke-width="1.5"><circle cx="12" cy="12" r="10"/><polygon points="16.24,7.76 14.12,14.12 7.76,16.24 9.88,9.88 16.24,7.76"/></svg>' },
+      { id: 'navigation', name: '导航', svg: '<svg viewBox="0 0 24 24" fill="none" stroke="currentColor" stroke-width="1.5"><polygon points="3,11 22,2 13,21 11,13 3,11"/></svg>' },
+      { id: 'globe', name: '地球', svg: '<svg viewBox="0 0 24 24" fill="none" stroke="currentColor" stroke-width="1.5"><circle cx="12" cy="12" r="10"/><line x1="2" y1="12" x2="22" y2="12"/><path d="M12 2a15.3 15.3 0 0 1 4 10 15.3 15.3 0 0 1-4 10 15.3 15.3 0 0 1-4-10 15.3 15.3 0 0 1 4-10z"/></svg>' },
+      { id: 'tent', name: '帐篷', svg: '<svg viewBox="0 0 24 24" fill="none" stroke="currentColor" stroke-width="1.5"><path d="M3.5 21 14 3"/><path d="M20.5 21 10 3"/><path d="M15.5 21 12 15l-3.5 6"/><path d="M2 21h20"/></svg>' },
+      { id: 'mountain', name: '山峰', svg: '<svg viewBox="0 0 24 24" fill="none" stroke="currentColor" stroke-width="1.5"><path d="m8 3 4 8 5-5 5 15H2L8 3z"/></svg>' },
+      { id: 'fuel', name: '加油', svg: '<svg viewBox="0 0 24 24" fill="none" stroke="currentColor" stroke-width="1.5"><path d="M3 22h12"/><path d="M5 22V8a2 2 0 0 1 2-2h6a2 2 0 0 1 2 2v14"/><path d="M15 12h2a2 2 0 0 1 2 2v3a2 2 0 0 1-2 2h-1"/><path d="M5 2h10v4H5z"/><path d="M18 6h2"/></svg>' },
+      { id: 'ticket', name: '票', svg: '<svg viewBox="0 0 24 24" fill="none" stroke="currentColor" stroke-width="1.5"><path d="M2 9a3 3 0 0 1 0 6v2a2 2 0 0 0 2 2h16a2 2 0 0 0 2-2v-2a3 3 0 0 1 0-6V7a2 2 0 0 0-2-2H4a2 2 0 0 0-2 2Z"/><path d="M13 5v2"/><path d="M13 17v2"/><path d="M13 11v2"/></svg>' },
+    ]
+  },
+  {
+    name: '购物',
+    icons: [
+      { id: 'shopping-cart', name: '购物车', svg: '<svg viewBox="0 0 24 24" fill="none" stroke="currentColor" stroke-width="1.5"><circle cx="8" cy="21" r="1"/><circle cx="19" cy="21" r="1"/><path d="M2.05 2.05h2l2.66 12.42a2 2 0 0 0 2 1.58h9.78a2 2 0 0 0 1.95-1.57l1.65-7.43H5.12"/></svg>' },
+      { id: 'shopping-bag', name: '购物袋', svg: '<svg viewBox="0 0 24 24" fill="none" stroke="currentColor" stroke-width="1.5"><path d="M6 2 3 6v14a2 2 0 0 0 2 2h14a2 2 0 0 0 2-2V6l-3-4Z"/><path d="M3 6h18"/><path d="M16 10a4 4 0 0 1-8 0"/></svg>' },
+      { id: 'store', name: '商店', svg: '<svg viewBox="0 0 24 24" fill="none" stroke="currentColor" stroke-width="1.5"><path d="m2 7 4.41-4.41A2 2 0 0 1 7.83 2h8.34a2 2 0 0 1 1.42.59L22 7"/><path d="M4 12v8a2 2 0 0 0 2 2h12a2 2 0 0 0 2-2v-8"/><path d="M15 22v-4a2 2 0 0 0-2-2h-2a2 2 0 0 0-2 2v4"/><path d="M2 7h20"/><path d="M22 7v3a2 2 0 0 1-2 2 2.7 2.7 0 0 1-1.59-.63.7.7 0 0 0-.82 0A2.7 2.7 0 0 1 16 12a2.7 2.7 0 0 1-1.59-.63.7.7 0 0 0-.82 0A2.7 2.7 0 0 1 12 12a2.7 2.7 0 0 1-1.59-.63.7.7 0 0 0-.82 0A2.7 2.7 0 0 1 8 12a2.7 2.7 0 0 1-1.59-.63.7.7 0 0 0-.82 0A2.7 2.7 0 0 1 4 12a2 2 0 0 1-2-2V7"/></svg>' },
+      { id: 'package', name: '包裹', svg: '<svg viewBox="0 0 24 24" fill="none" stroke="currentColor" stroke-width="1.5"><path d="m7.5 4.27 9 5.15"/><path d="M21 8a2 2 0 0 0-1-1.73l-7-4a2 2 0 0 0-2 0l-7 4A2 2 0 0 0 3 8v8a2 2 0 0 0 1 1.73l7 4a2 2 0 0 0 2 0l7-4A2 2 0 0 0 21 16Z"/><path d="m3.3 7 8.7 5 8.7-5"/><path d="M12 22V12"/></svg>' },
+      { id: 'tag', name: '标签', svg: '<svg viewBox="0 0 24 24" fill="none" stroke="currentColor" stroke-width="1.5"><path d="M12 2H2v10l9.29 9.29c.94.94 2.48.94 3.42 0l6.58-6.58c.94-.94.94-2.48 0-3.42L12 2Z"/><path d="M7 7h.01"/></svg>' },
+      { id: 'barcode', name: '条形码', svg: '<svg viewBox="0 0 24 24" fill="none" stroke="currentColor" stroke-width="1.5"><path d="M3 5v14"/><path d="M8 5v14"/><path d="M12 5v14"/><path d="M17 5v14"/><path d="M21 5v14"/></svg>' },
+      { id: 'scan', name: '扫描', svg: '<svg viewBox="0 0 24 24" fill="none" stroke="currentColor" stroke-width="1.5"><path d="M3 7V5a2 2 0 0 1 2-2h2"/><path d="M17 3h2a2 2 0 0 1 2 2v2"/><path d="M21 17v2a2 2 0 0 1-2 2h-2"/><path d="M7 21H5a2 2 0 0 1-2-2v-2"/><line x1="7" y1="12" x2="17" y2="12"/></svg>' },
+      { id: 'basket', name: '篮子', svg: '<svg viewBox="0 0 24 24" fill="none" stroke="currentColor" stroke-width="1.5"><path d="m2 9 3 11h14l3-11"/><path d="M2 9h20"/><path d="M12 3v6"/><path d="m8 6 4-3 4 3"/></svg>' },
+      { id: 'crown', name: '皇冠', svg: '<svg viewBox="0 0 24 24" fill="none" stroke="currentColor" stroke-width="1.5"><path d="m2 4 3 12h14l3-12-6 7-4-7-4 7-6-7zm3 16h14"/></svg>' },
+      { id: 'sparkles', name: '闪亮', svg: '<svg viewBox="0 0 24 24" fill="none" stroke="currentColor" stroke-width="1.5"><path d="m12 3-1.912 5.813a2 2 0 0 1-1.275 1.275L3 12l5.813 1.912a2 2 0 0 1 1.275 1.275L12 21l1.912-5.813a2 2 0 0 1 1.275-1.275L21 12l-5.813-1.912a2 2 0 0 1-1.275-1.275L12 3Z"/><path d="M5 3v4"/><path d="M19 17v4"/><path d="M3 5h4"/><path d="M17 19h4"/></svg>' },
+      { id: 'box', name: '盒子', svg: '<svg viewBox="0 0 24 24" fill="none" stroke="currentColor" stroke-width="1.5"><path d="M21 8a2 2 0 0 0-1-1.73l-7-4a2 2 0 0 0-2 0l-7 4A2 2 0 0 0 3 8v8a2 2 0 0 0 1 1.73l7 4a2 2 0 0 0 2 0l7-4A2 2 0 0 0 21 16Z"/><path d="m3.3 7 8.7 5 8.7-5"/><path d="M12 22V12"/></svg>' },
+      { id: 'archive', name: '存档', svg: '<svg viewBox="0 0 24 24" fill="none" stroke="currentColor" stroke-width="1.5"><rect x="2" y="4" width="20" height="5" rx="1"/><path d="M4 9v9a2 2 0 0 0 2 2h12a2 2 0 0 0 2-2V9"/><path d="M10 13h4"/></svg>' },
+      { id: 'refresh-cw', name: '刷新', svg: '<svg viewBox="0 0 24 24" fill="none" stroke="currentColor" stroke-width="1.5"><path d="M3 12a9 9 0 0 1 9-9 9.75 9.75 0 0 1 6.74 2.74L21 8"/><path d="M21 3v5h-5"/><path d="M21 12a9 9 0 0 1-9 9 9.75 9.75 0 0 1-6.74-2.74L3 16"/><path d="M8 16H3v5"/></svg>' },
+      { id: 'undo', name: '撤销', svg: '<svg viewBox="0 0 24 24" fill="none" stroke="currentColor" stroke-width="1.5"><path d="M3 7v6h6"/><path d="M21 17a9 9 0 0 0-9-9 9 9 0 0 0-6 2.3L3 13"/></svg>' },
+      { id: 'check', name: '勾选', svg: '<svg viewBox="0 0 24 24" fill="none" stroke="currentColor" stroke-width="1.5"><polyline points="20,6 9,17 4,12"/></svg>' },
+    ]
+  },
+  {
+    name: '其他',
+    icons: [
+      { id: 'zap', name: '闪电', svg: '<svg viewBox="0 0 24 24" fill="none" stroke="currentColor" stroke-width="1.5"><polygon points="13,2 3,14 12,14 11,22 21,10 12,10 13,2"/></svg>' },
+      { id: 'shield', name: '盾牌', svg: '<svg viewBox="0 0 24 24" fill="none" stroke="currentColor" stroke-width="1.5"><path d="M12 22s8-4 8-10V5l-8-3-8 3v7c0 6 8 10 8 10z"/></svg>' },
+      { id: 'lock', name: '锁', svg: '<svg viewBox="0 0 24 24" fill="none" stroke="currentColor" stroke-width="1.5"><rect x="3" y="11" width="18" height="11" rx="2"/><path d="M7 11V7a5 5 0 0 1 10 0v4"/></svg>' },
+      { id: 'unlock', name: '解锁', svg: '<svg viewBox="0 0 24 24" fill="none" stroke="currentColor" stroke-width="1.5"><rect x="3" y="11" width="18" height="11" rx="2"/><path d="M7 11V7a5 5 0 0 1 9.9-1"/></svg>' },
+      { id: 'settings', name: '设置', svg: '<svg viewBox="0 0 24 24" fill="none" stroke="currentColor" stroke-width="1.5"><circle cx="12" cy="12" r="3"/><path d="M19.4 15a1.65 1.65 0 0 0 .33 1.82l.06.06a2 2 0 0 1 0 2.83 2 2 0 0 1-2.83 0l-.06-.06a1.65 1.65 0 0 0-1.82-.33 1.65 1.65 0 0 0-1 1.51V21a2 2 0 0 1-2 2 2 2 0 0 1-2-2v-.09A1.65 1.65 0 0 0 9 19.4a1.65 1.65 0 0 0-1.82.33l-.06.06a2 2 0 0 1-2.83 0 2 2 0 0 1 0-2.83l.06-.06a1.65 1.65 0 0 0 .33-1.82 1.65 1.65 0 0 0-1.51-1H3a2 2 0 0 1-2-2 2 2 0 0 1 2-2h.09A1.65 1.65 0 0 0 4.6 9a1.65 1.65 0 0 0-.33-1.82l-.06-.06a2 2 0 0 1 0-2.83 2 2 0 0 1 2.83 0l.06.06a1.65 1.65 0 0 0 1.82.33H9a1.65 1.65 0 0 0 1-1.51V3a2 2 0 0 1 2-2 2 2 0 0 1 2 2v.09a1.65 1.65 0 0 0 1 1.51 1.65 1.65 0 0 0 1.82-.33l.06-.06a2 2 0 0 1 2.83 0 2 2 0 0 1 0 2.83l-.06.06a1.65 1.65 0 0 0-.33 1.82V9a1.65 1.65 0 0 0 1.51 1H21a2 2 0 0 1 2 2 2 2 0 0 1-2 2h-.09a1.65 1.65 0 0 0-1.51 1z"/></svg>' },
+      { id: 'bell', name: '铃铛', svg: '<svg viewBox="0 0 24 24" fill="none" stroke="currentColor" stroke-width="1.5"><path d="M6 8a6 6 0 0 1 12 0c0 7 3 9 3 9H3s3-2 3-9"/><path d="M10.3 21a1.94 1.94 0 0 0 3.4 0"/></svg>' },
+      { id: 'wifi', name: 'WiFi', svg: '<svg viewBox="0 0 24 24" fill="none" stroke="currentColor" stroke-width="1.5"><path d="M5 12.55a11 11 0 0 1 14.08 0"/><path d="M1.42 9a16 16 0 0 1 21.16 0"/><path d="M8.53 16.11a6 6 0 0 1 6.95 0"/><line x1="12" y1="20" x2="12.01" y2="20"/></svg>' },
+      { id: 'cloud', name: '云', svg: '<svg viewBox="0 0 24 24" fill="none" stroke="currentColor" stroke-width="1.5"><path d="M17.5 19H9a7 7 0 1 1 6.71-9h1.79a4.5 4.5 0 1 1 0 9Z"/></svg>' },
+      { id: 'database', name: '数据库', svg: '<svg viewBox="0 0 24 24" fill="none" stroke="currentColor" stroke-width="1.5"><ellipse cx="12" cy="5" rx="9" ry="3"/><path d="M21 12c0 1.66-4 3-9 3s-9-1.34-9-3"/><path d="M3 5v14c0 1.66 4 3 9 3s9-1.34 9-3V5"/></svg>' },
+      { id: 'code', name: '代码', svg: '<svg viewBox="0 0 24 24" fill="none" stroke="currentColor" stroke-width="1.5"><polyline points="16,18 22,12 16,6"/><polyline points="8,6 2,12 8,18"/></svg>' },
+      { id: 'terminal', name: '终端', svg: '<svg viewBox="0 0 24 24" fill="none" stroke="currentColor" stroke-width="1.5"><polyline points="4,17 10,11 4,5"/><line x1="12" y1="19" x2="20" y2="19"/></svg>' },
+      { id: 'camera', name: '相机', svg: '<svg viewBox="0 0 24 24" fill="none" stroke="currentColor" stroke-width="1.5"><path d="M14.5 4h-5L7 7H4a2 2 0 0 0-2 2v9a2 2 0 0 0 2 2h16a2 2 0 0 0 2-2V9a2 2 0 0 0-2-2h-3l-2.5-3z"/><circle cx="12" cy="13" r="3"/></svg>' },
+      { id: 'music', name: '音乐', svg: '<svg viewBox="0 0 24 24" fill="none" stroke="currentColor" stroke-width="1.5"><path d="M9 18V5l12-2v13"/><circle cx="6" cy="18" r="3"/><circle cx="18" cy="16" r="3"/></svg>' },
+      { id: 'palette', name: '调色板', svg: '<svg viewBox="0 0 24 24" fill="none" stroke="currentColor" stroke-width="1.5"><circle cx="13.5" cy="6.5" r="0.5" fill="currentColor"/><circle cx="17.5" cy="10.5" r="0.5" fill="currentColor"/><circle cx="8.5" cy="7.5" r="0.5" fill="currentColor"/><circle cx="6.5" cy="12.5" r="0.5" fill="currentColor"/><path d="M12 2C6.5 2 2 6.5 2 12s4.5 10 10 10c.926 0 1.648-.746 1.648-1.688 0-.437-.18-.835-.437-1.125-.29-.289-.438-.652-.438-1.125a1.64 1.64 0 0 1 1.668-1.668h1.996c3.051 0 5.555-2.503 5.555-5.555C21.965 6.012 17.461 2 12 2z"/></svg>' },
+      { id: 'puzzle', name: '拼图', svg: '<svg viewBox="0 0 24 24" fill="none" stroke="currentColor" stroke-width="1.5"><path d="M19.439 7.85c-.049.322.059.648.289.878l1.568 1.568c.47.47.706 1.087.706 1.704s-.235 1.233-.706 1.704l-1.611 1.611a.98.98 0 0 1-.837.276c-.47-.07-.802-.48-.968-.925a2.501 2.501 0 1 0-3.214 3.214c.446.166.855.497.925.968a.979.979 0 0 1-.276.837l-1.61 1.61a2.404 2.404 0 0 1-1.705.707 2.402 2.402 0 0 1-1.704-.706l-1.568-1.568a1.026 1.026 0 0 0-.877-.29c-.493.074-.84.504-1.02.968a2.5 2.5 0 1 1-3.237-3.237c.464-.18.894-.527.967-1.02a1.026 1.026 0 0 0-.289-.877l-1.568-1.568A2.402 2.402 0 0 1 1.998 12c0-.617.236-1.234.706-1.704L4.23 8.77c.24-.24.581-.353.917-.303.515.077.877.528 1.073 1.01a2.5 2.5 0 1 0 3.259-3.259c-.482-.196-.933-.558-1.01-1.073-.05-.336.062-.676.303-.917l1.525-1.525A2.402 2.402 0 0 1 12 1.998c.617 0 1.234.236 1.704.706l1.568 1.568c.23.23.556.338.877.29.493-.074.84-.504 1.02-.968a2.5 2.5 0 1 1 3.237 3.237c-.464.18-.894.527-.967 1.02Z"/></svg>' },
+      { id: 'rocket', name: '火箭', svg: '<svg viewBox="0 0 24 24" fill="none" stroke="currentColor" stroke-width="1.5"><path d="M4.5 16.5c-1.5 1.26-2 5-2 5s3.74-.5 5-2c.71-.84.7-2.13-.09-2.91a2.18 2.18 0 0 0-2.91-.09z"/><path d="m12 15-3-3a22 22 0 0 1 2-3.95A12.88 12.88 0 0 1 22 2c0 2.72-.78 7.5-6 11a22.35 22.35 0 0 1-4 2z"/><path d="M9 12H4s.55-3.03 2-4c1.62-1.08 5 0 5 0"/><path d="M12 15v5s3.03-.55 4-2c1.08-1.62 0-5 0-5"/></svg>' },
+    ]
+  }
+];
+
+// 获取 SVG 图标字符串
+function getSVGIconById(iconId: string): string {
+  for (const category of SVG_ICON_CATEGORIES) {
+    const icon = category.icons.find(i => i.id === iconId);
+    if (icon) {
+      return icon.svg;
+    }
+  }
+  return '';
+}
+
+// 可选图标列表（兼容旧代码，已废弃）
 const ICON_OPTIONS: string[] = [
   // 工作相关
   '💼', '📁', '📋', '📝', '📌', '📎', '✏', '📊', '📈', '📉',
@@ -947,7 +1161,14 @@ class DailyPlanner {
     if (iconInput) iconInput.value = icon;
     // 更新显示的图标
     const display = document.getElementById('selectedIconDisplay');
-    if (display) display.textContent = icon;
+    if (display) {
+      const svgIcon = getSVGIconById(icon);
+      if (svgIcon) {
+        display.innerHTML = `<span class="w-5 h-5">${svgIcon}</span>`;
+      } else {
+        display.textContent = icon;
+      }
+    }
   }
 
   // 切换任务标签选择
@@ -5182,9 +5403,9 @@ class DailyPlanner {
               <input type="text" id="newTagName" placeholder="标签名称"
                      class="flex-1 px-3 py-2 border ${inputBg} rounded-lg text-sm ${isDark ? 'text-gray-100' : ''}">
               <button type="button" onclick="planner.toggleIconPicker()"
-                      class="w-16 px-2 py-2 border ${inputBg} rounded-lg text-xl text-center hover:bg-gray-100 dark:hover:bg-gray-600 transition-colors flex items-center justify-center"
+                      class="w-16 px-2 py-2 border ${inputBg} rounded-lg text-center hover:bg-gray-100 dark:hover:bg-gray-600 transition-colors flex items-center justify-center"
                       title="点击选择图标">
-                <span id="selectedIconDisplay">${this.selectedIcon}</span>
+                <span id="selectedIconDisplay" class="w-5 h-5">${getSVGIconById(this.selectedIcon) || this.selectedIcon}</span>
               </button>
               <input type="hidden" id="newTagIcon" value="${this.selectedIcon}">
             </div>
@@ -5240,27 +5461,11 @@ class DailyPlanner {
     const isDark = this.themeMode === 'dark';
     const bgClass = isDark ? 'bg-gray-800' : 'bg-white';
     const textClass = isDark ? 'text-gray-100' : 'text-gray-800';
-    const cardBg = isDark ? 'bg-gray-700' : 'bg-gray-50';
     
-    // 对图标进行分类
-    const categories = [
-      { name: '工作', icons: ICON_OPTIONS.slice(0, 20) },
-      { name: '学习', icons: ICON_OPTIONS.slice(20, 40) },
-      { name: '生活', icons: ICON_OPTIONS.slice(40, 60) },
-      { name: '健康', icons: ICON_OPTIONS.slice(60, 80) },
-      { name: '财务', icons: ICON_OPTIONS.slice(80, 100) },
-      { name: '社交', icons: ICON_OPTIONS.slice(100, 120) },
-      { name: '出行', icons: ICON_OPTIONS.slice(120, 140) },
-      { name: '购物', icons: ICON_OPTIONS.slice(140, 160) },
-      { name: '娱乐', icons: ICON_OPTIONS.slice(160, 180) },
-      { name: '自然', icons: ICON_OPTIONS.slice(180, 200) },
-      { name: '其他', icons: ICON_OPTIONS.slice(200) }
-    ];
-
     return `
       <div class="fixed inset-0 bg-black bg-opacity-30 flex items-center justify-center z-[60]"
            onclick="planner.showIconPicker = false; planner.render();">
-        <div class="${bgClass} rounded-xl shadow-2xl p-4 w-80 max-h-[70vh] overflow-hidden"
+        <div class="${bgClass} rounded-xl shadow-2xl p-4 w-96 max-h-[80vh] overflow-hidden"
              onclick="event.stopPropagation()">
           <div class="flex items-center justify-between mb-3">
             <span class="text-sm font-medium ${textClass}">选择图标</span>
@@ -5271,16 +5476,16 @@ class DailyPlanner {
               </svg>
             </button>
           </div>
-          <div class="overflow-y-auto max-h-[55vh] space-y-3">
-            ${categories.map(cat => `
+          <div class="overflow-y-auto max-h-[65vh] space-y-4">
+            ${SVG_ICON_CATEGORIES.map(cat => `
               <div>
-                <div class="text-xs ${isDark ? 'text-gray-400' : 'text-gray-500'} mb-1">${cat.name}</div>
-                <div class="grid grid-cols-10 gap-1">
+                <div class="text-xs font-medium ${isDark ? 'text-gray-400' : 'text-gray-500'} mb-2">${cat.name}</div>
+                <div class="grid grid-cols-8 gap-1.5">
                   ${cat.icons.map(icon => `
-                    <button onclick="planner.selectIcon('${icon}')"
-                            class="w-7 h-7 flex items-center justify-center text-lg hover:bg-gray-100 dark:hover:bg-gray-600 rounded ${this.selectedIcon === icon ? 'bg-blue-100 dark:bg-blue-900 ring-1 ring-blue-500' : ''}"
-                            title="${icon}">
-                      ${icon}
+                    <button onclick="planner.selectIcon('${icon.id}')"
+                            class="w-8 h-8 flex items-center justify-center rounded-lg transition-all ${this.selectedIcon === icon.id ? 'bg-blue-100 dark:bg-blue-900 ring-2 ring-blue-500' : 'hover:bg-gray-100 dark:hover:bg-gray-700'}"
+                            title="${icon.name}">
+                      <span class="w-5 h-5 ${isDark ? 'text-gray-300' : 'text-gray-600'}">${icon.svg}</span>
                     </button>
                   `).join('')}
                 </div>
